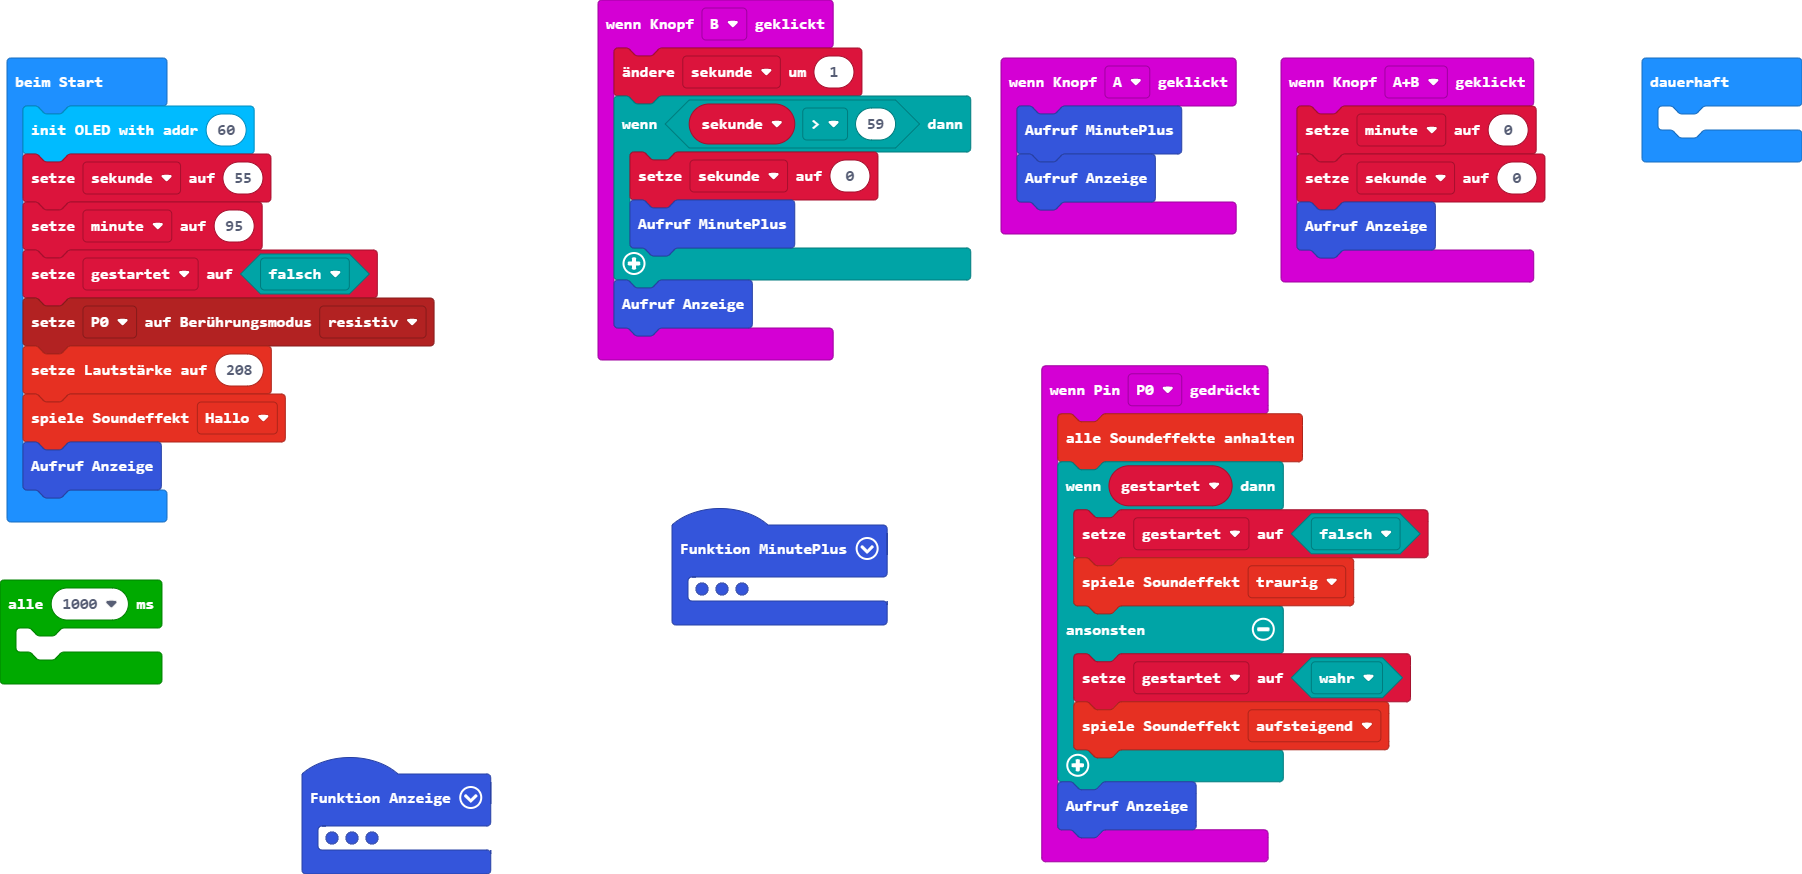
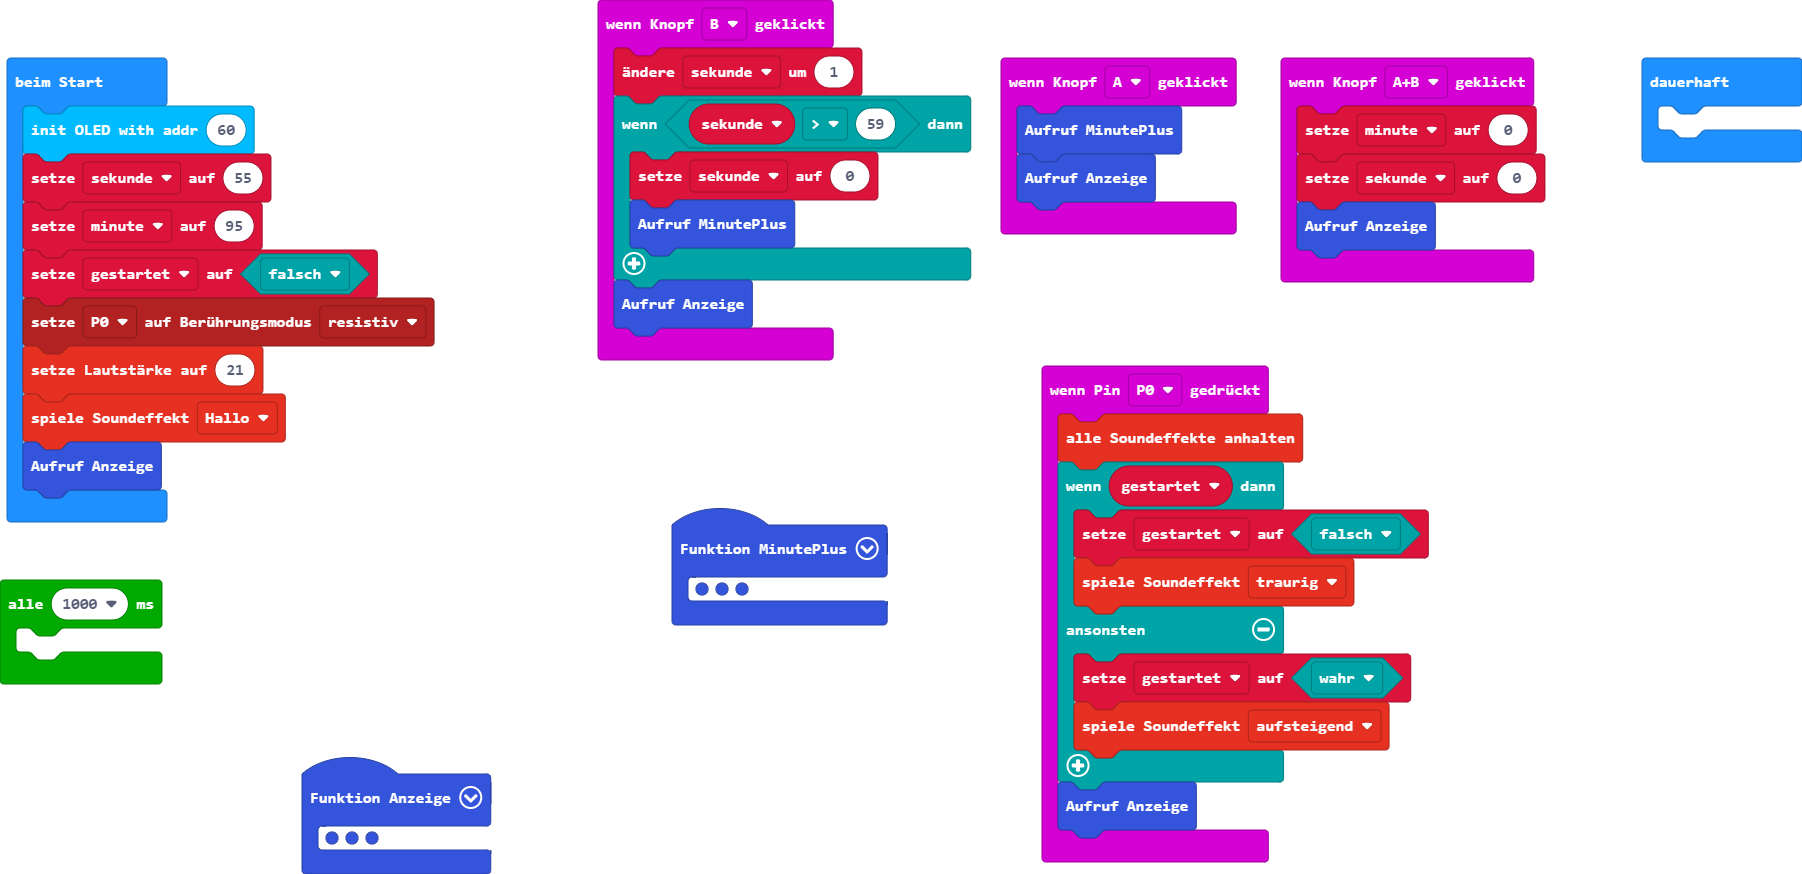
Aktualisiere main.blocks, main.ts

Changed region(s): [[0.6215, 0.5561, 0.6837, 0.587], [0.1243, 0.4016, 0.1554, 0.4634], [0.5905, 0.865, 0.6215, 0.8959]]

diff --git a/main.ts b/main.ts
@@ -40,24 +40,24 @@ function Anzeige () {
     minute,
     1
     )
-    OLED_I2C.rect(
-    66,
-    15,
-    73,
-    22,
-    1
-    )
-    OLED_I2C.rect(
-    66,
-    35,
-    73,
-    42,
-    1
-    )
     OLED_I2C.number_32x40(
     67,
     12,
     sekunde,
+    1
+    )
+    OLED_I2C.rect(
+    62,
+    18,
+    66,
+    24,
+    1
+    )
+    OLED_I2C.rect(
+    62,
+    35,
+    66,
+    41,
     1
     )
     OLED_I2C.draw()
@@ -75,7 +75,7 @@ sekunde = 55
 minute = 95
 gestartet = false
 pins.touchSetMode(TouchTarget.P0, TouchTargetMode.Resistive)
-music.setVolume(74)
+music.setVolume(21)
 soundExpression.hello.play()
 Anzeige()
 loops.everyInterval(1000, function () {
